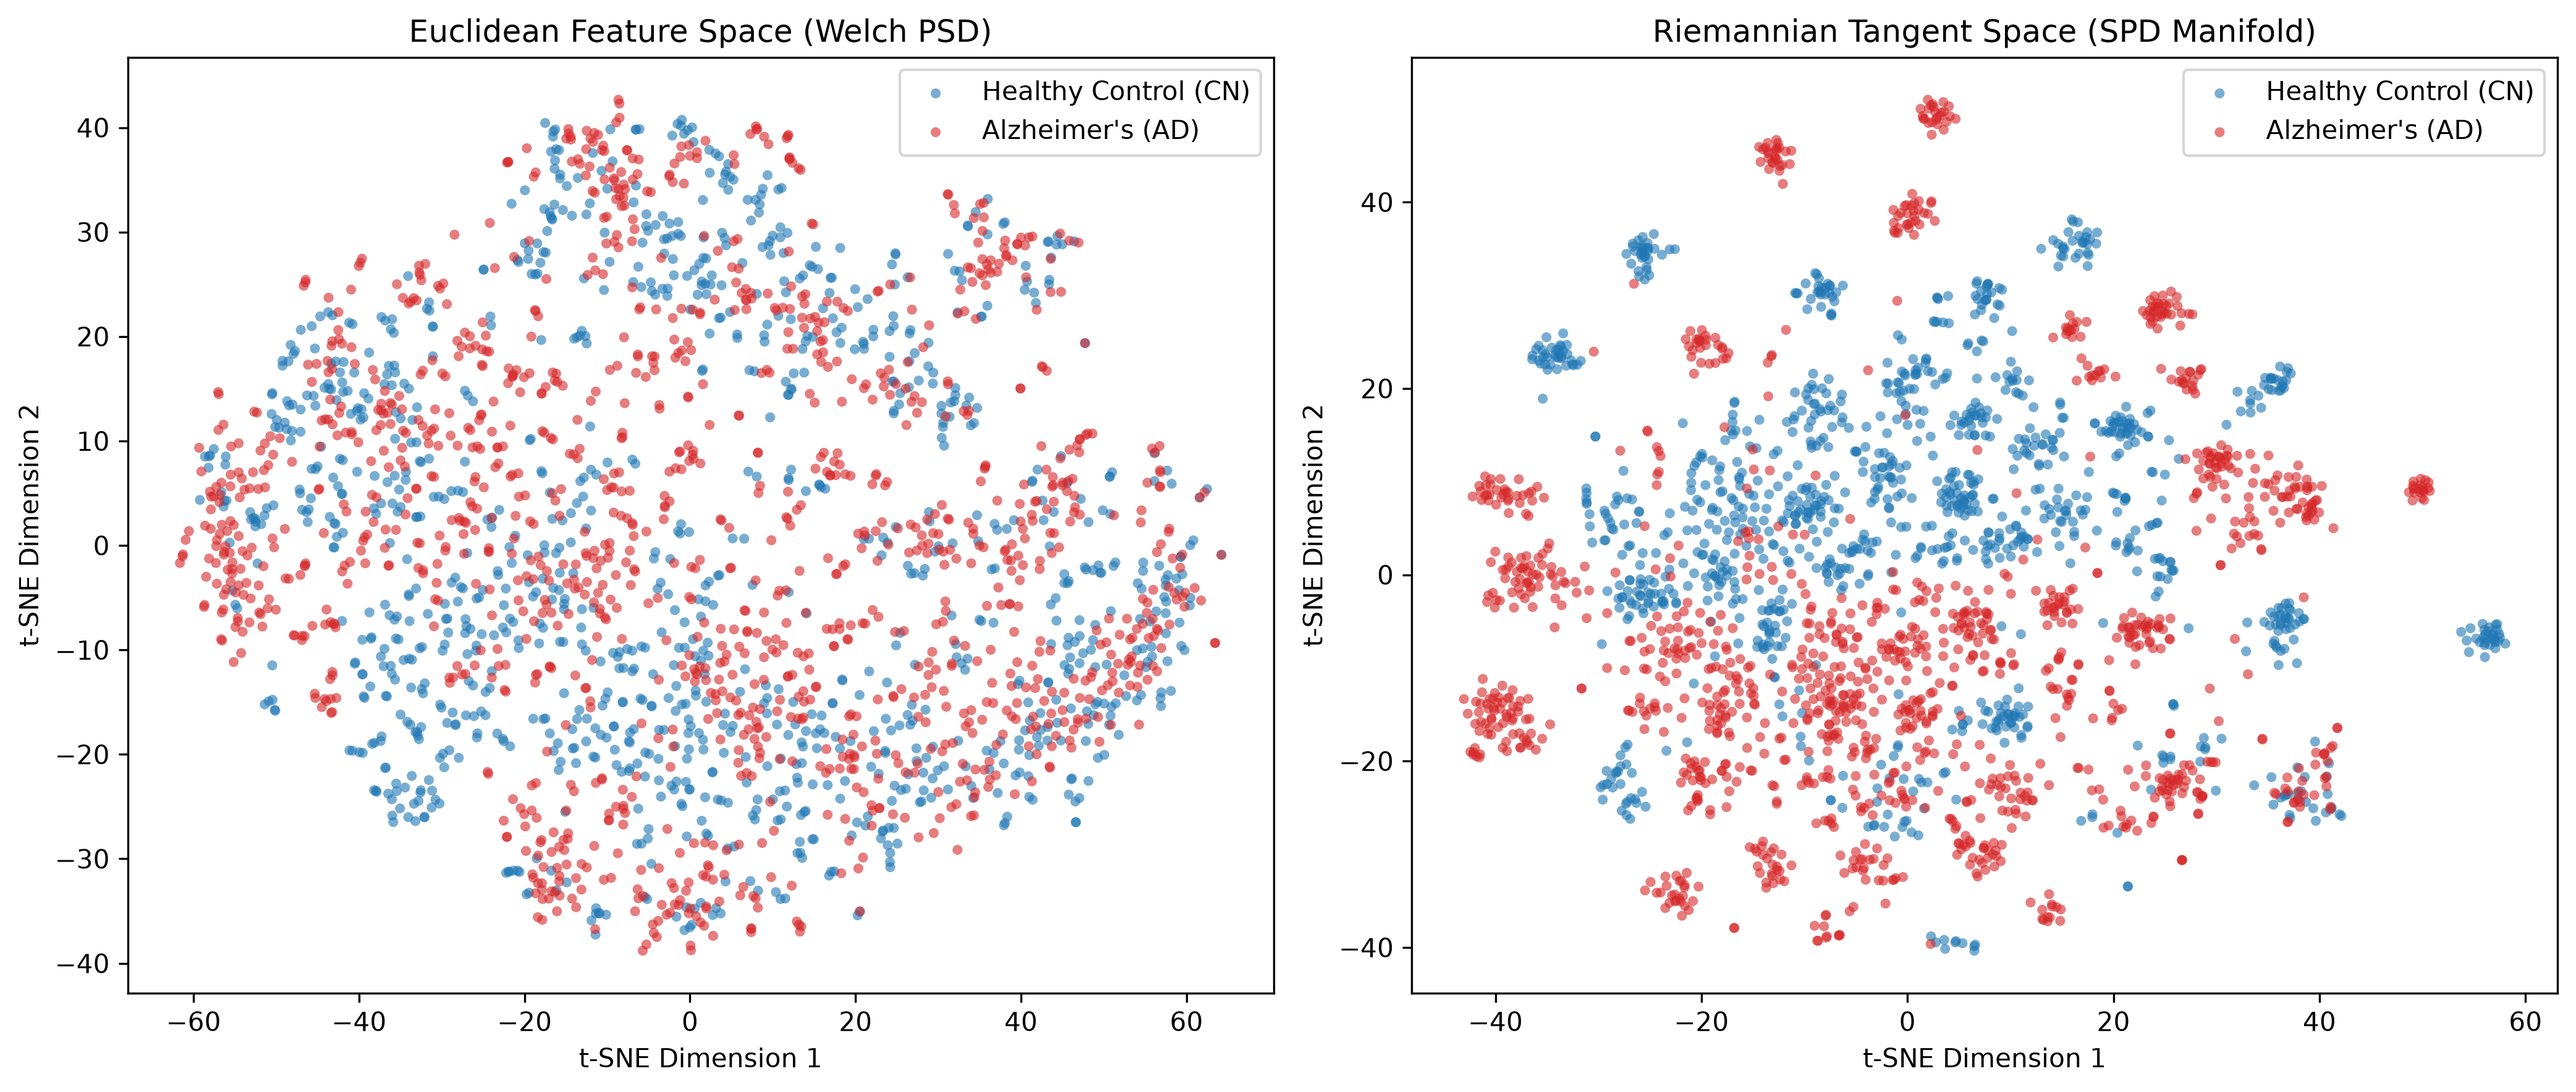
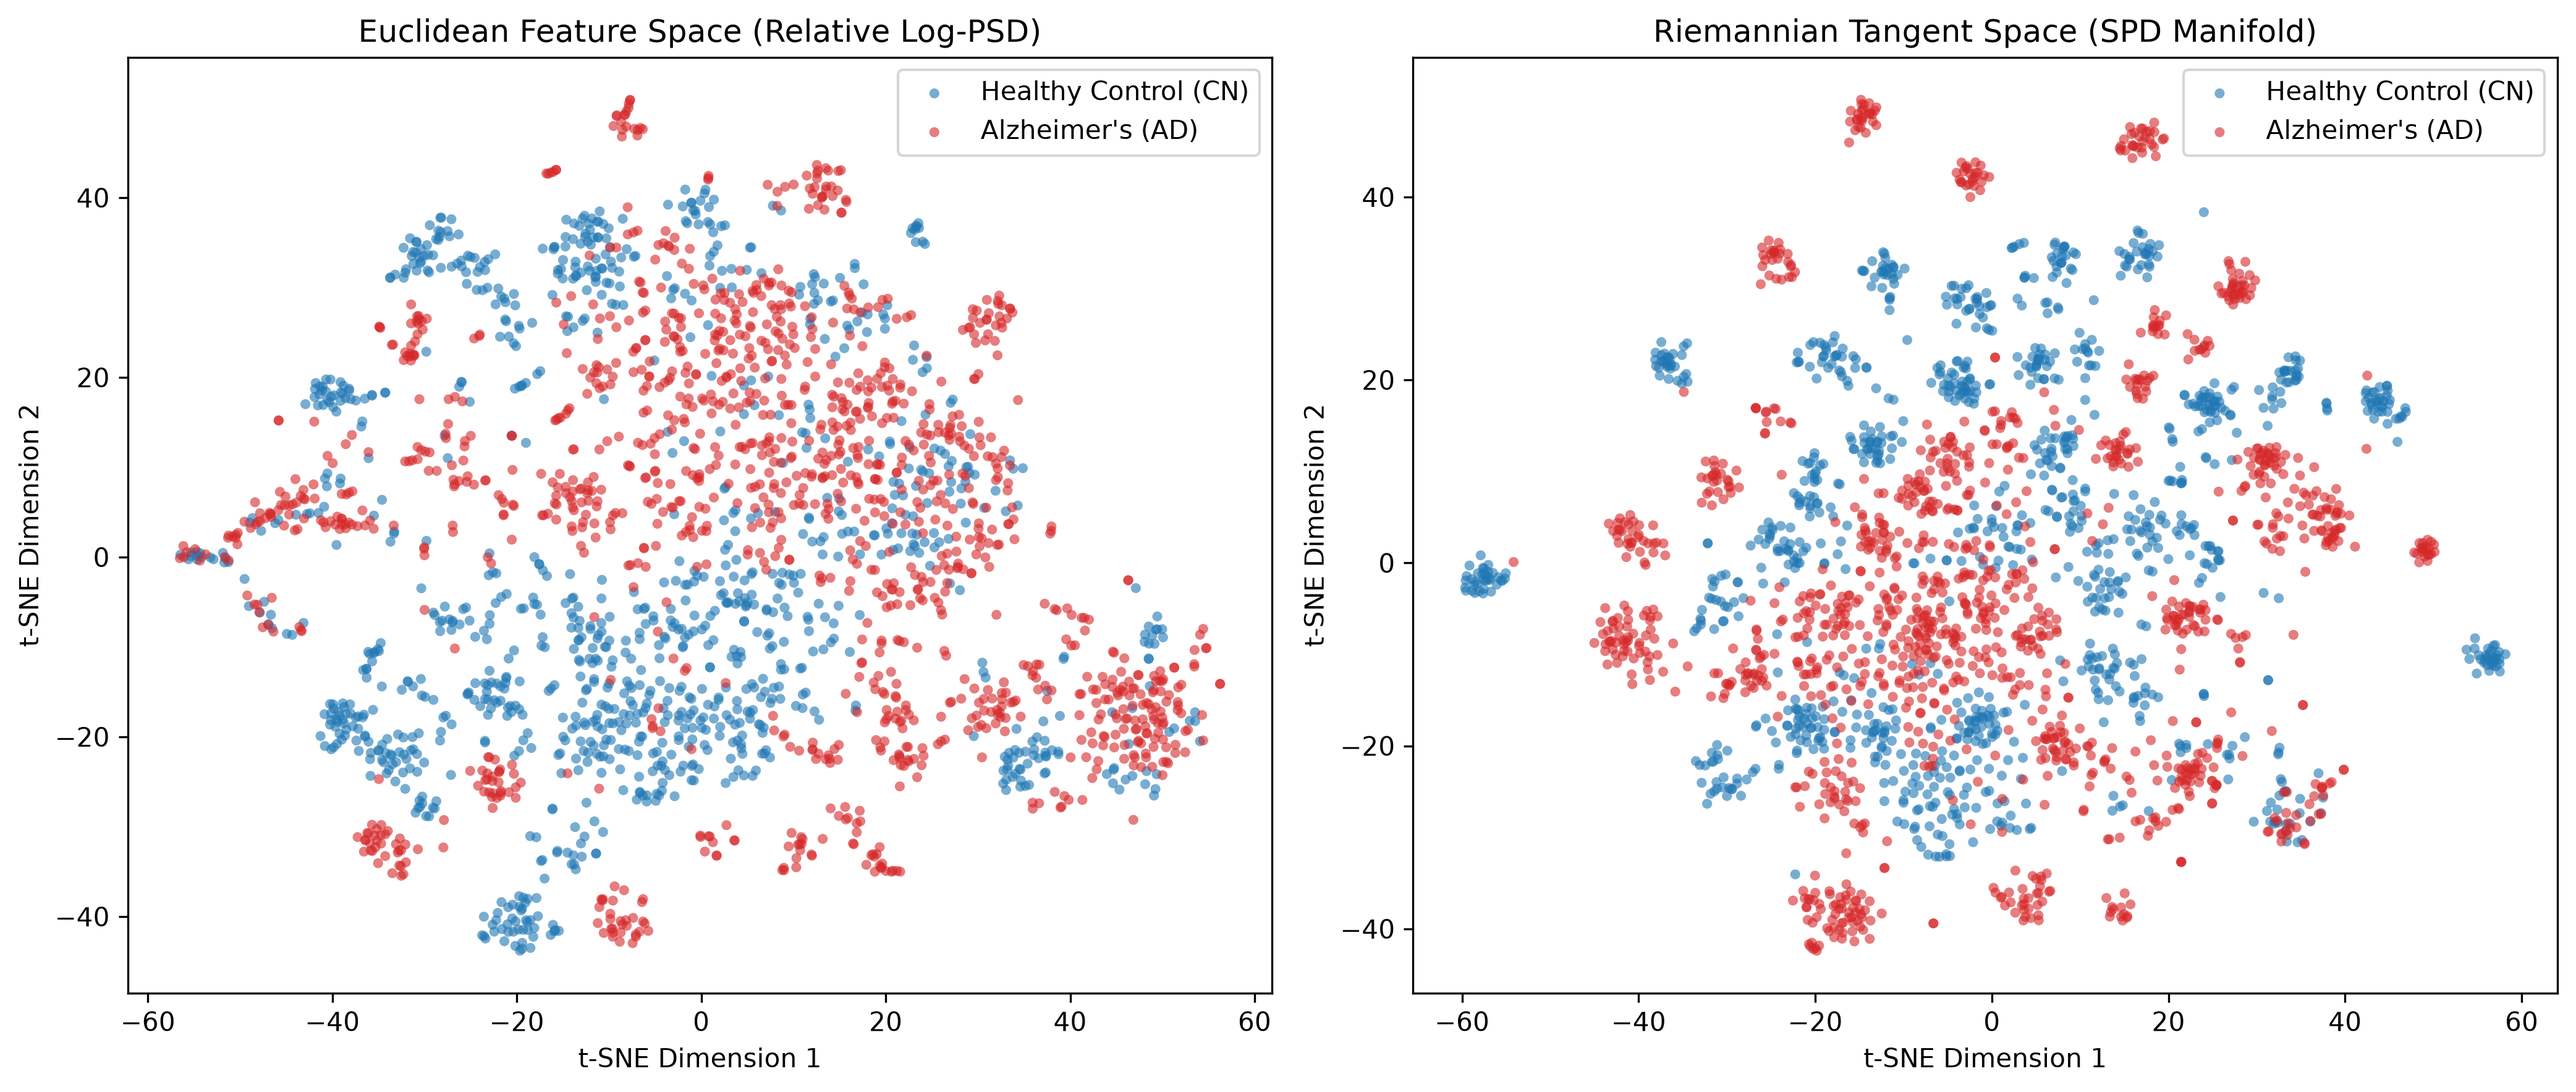
v1

diff --git a/6_eval.py b/6_eval.py
@@ -21,14 +21,16 @@ if __name__ == '__main__':
     logo = LeaveOneGroupOut()
 
     mdls = {
-        'TS-SVM': (Pipeline([('sc', StandardScaler()), ('svm', LinearSVC(class_weight='balanced', dual='auto', random_state=42))]), xt, 'decision_function'),
-        'TS-LR': (Pipeline([('sc', StandardScaler()), ('lr', LogisticRegression(class_weight='balanced', max_iter=1000))]), xt, 'decision_function'),
+        'TS-SVM': (Pipeline([('sc', StandardScaler()), ('svm', LinearSVC(C=0.01, class_weight='balanced', dual='auto', random_state=42))]), xt, 'decision_function'),
+        'TS-LR': (Pipeline([('sc', StandardScaler()), ('lr', LogisticRegression(C=0.01, class_weight='balanced', max_iter=1000))]), xt, 'decision_function'),
         'MDM': (MDM(metric=dict(mean='riemann', distance='riemann')), xc, 'predict_proba'),
-        'RF': (RandomForestClassifier(n_estimators=100, class_weight='balanced', random_state=42), xp, 'predict_proba'),
-        'Euc-LR': (Pipeline([('sc', StandardScaler()), ('lr', LogisticRegression(class_weight='balanced', max_iter=1000))]), xp, 'decision_function')
+        'RF': (RandomForestClassifier(n_estimators=200, max_depth=8, class_weight='balanced', random_state=42), xp, 'predict_proba'),
+        'Euc-LR': (Pipeline([('sc', StandardScaler()), ('lr', LogisticRegression(C=0.01, class_weight='balanced', max_iter=1000))]), xp, 'decision_function')
     }
 
-    res = []
+    ep_res = []
+    sb_res = []
+
     for nm, (m, x, mth) in mdls.items():
         sc = cross_val_predict(m, x, yl, groups=gl, cv=logo, method=mth, n_jobs=-1)
         if mth == 'predict_proba':
@@ -37,18 +39,39 @@ if __name__ == '__main__':
         else:
             pr = (sc >= 0.0).astype(int)
 
-        res.append({
+        ep_res.append({
             'Model': nm,
             'Accuracy': accuracy_score(yl, pr),
             'ROC-AUC': roc_auc_score(yl, sc),
-            'Precision': precision_score(yl, pr),
-            'Recall': recall_score(yl, pr),
-            'F1-Score': f1_score(yl, pr)
+            'Precision': precision_score(yl, pr, zero_division=0),
+            'Recall': recall_score(yl, pr, zero_division=0),
+            'F1-Score': f1_score(yl, pr, zero_division=0)
         })
 
-    df_res = pd.DataFrame(res)
-    print(df_res.to_string(index=False))
-    df_res.to_csv('loso_metrics.csv', index=False)
+        df_s = pd.DataFrame({'g': gl, 'y': yl, 'sc': sc, 'pr': pr}).groupby('g').mean()
+        ys = df_s['y'].astype(int).values
+        scs = df_s['sc'].values
+        prs = (df_s['pr'].values >= 0.5).astype(int)
+
+        sb_res.append({
+            'Model': nm,
+            'Accuracy': accuracy_score(ys, prs),
+            'ROC-AUC': roc_auc_score(ys, scs),
+            'Precision': precision_score(ys, prs, zero_division=0),
+            'Recall': recall_score(ys, prs, zero_division=0),
+            'F1-Score': f1_score(ys, prs, zero_division=0)
+        })
+
+    df_ep = pd.DataFrame(ep_res)
+    df_sb = pd.DataFrame(sb_res)
+
+    print("\n--- EPOCH-LEVEL LOSO METRICS (4s Windows) ---")
+    print(df_ep.to_string(index=False))
+    df_ep.to_csv('loso_epoch_metrics.csv', index=False)
+
+    print("\n--- SUBJECT-LEVEL LOSO METRICS (Patient Diagnosis) ---")
+    print(df_sb.to_string(index=False))
+    df_sb.to_csv('loso_subject_metrics.csv', index=False)
 
     rng = np.random.default_rng(42)
     idx = rng.choice(len(yl), size=min(2500, len(yl)), replace=False)
@@ -67,7 +90,7 @@ if __name__ == '__main__':
         ax[0].scatter(tsne_euc[msk, 0], tsne_euc[msk, 1], c=clr, label=nm, alpha=0.6, s=15, edgecolors='none')
         ax[1].scatter(tsne_rie[msk, 0], tsne_rie[msk, 1], c=clr, label=nm, alpha=0.6, s=15, edgecolors='none')
 
-    ax[0].set_title('Euclidean Feature Space (Welch PSD)')
+    ax[0].set_title('Euclidean Feature Space (Relative Log-PSD)')
     ax[0].set_xlabel('t-SNE Dimension 1')
     ax[0].set_ylabel('t-SNE Dimension 2')
     ax[0].legend()

diff --git a/4_5_model.py b/4_5_model.py
@@ -21,22 +21,22 @@ tr, te = next(gss.split(xc, yl, gl))
 ts_svm = Pipeline([
     ('ts', TangentSpace(metric='riemann')),
     ('sc', StandardScaler()),
-    ('svm', SVC(kernel='linear', class_weight='balanced'))
+    ('svm', SVC(kernel='linear', C=0.01, class_weight='balanced'))
 ])
 
 ts_lr = Pipeline([
     ('ts', TangentSpace(metric='riemann')),
     ('sc', StandardScaler()),
-    ('lr', LogisticRegression(class_weight='balanced', max_iter=1000))
+    ('lr', LogisticRegression(C=0.01, class_weight='balanced', max_iter=1000))
 ])
 
 mdm = MDM(metric=dict(mean='riemann', distance='riemann'))
 
-rf = RandomForestClassifier(n_estimators=100, class_weight='balanced', random_state=42, n_jobs=-1)
+rf = RandomForestClassifier(n_estimators=200, max_depth=8, class_weight='balanced', random_state=42, n_jobs=-1)
 
 euc_lr = Pipeline([
     ('sc', StandardScaler()),
-    ('lr', LogisticRegression(class_weight='balanced', max_iter=1000))
+    ('lr', LogisticRegression(C=0.01, class_weight='balanced', max_iter=1000))
 ])
 
 ts_svm.fit(xc[tr], yl[tr])
@@ -51,7 +51,7 @@ print("MDM:", accuracy_score(yl[te], mdm.predict(xc[te])), roc_auc_score(yl[te],
 print("RF:", accuracy_score(yl[te], rf.predict(xp[te])), roc_auc_score(yl[te], rf.predict_proba(xp[te])[:, 1]))
 print("Euc-LR:", accuracy_score(yl[te], euc_lr.predict(xp[te])), roc_auc_score(yl[te], euc_lr.decision_function(xp[te])))
 
-xt = ts_svm.named_steps['ts'].transform(xc)
+xt = TangentSpace(metric='riemann').fit_transform(xc)
 np.save('X_ts.npy', xt)
 
 joblib.dump({

diff --git a/3_feat_ext.py b/3_feat_ext.py
@@ -1,12 +1,14 @@
 import numpy as np
 from mne.time_frequency import psd_array_welch
 from pyriemann.estimation import Covariances
+from sklearn.preprocessing import Normalizer
 
 xd = np.load('X_data.npy')
 sf = 200.0
 
 p, f = psd_array_welch(xd, sf, fmin=0.5, fmax=45.0, n_fft=256, verbose=False)
 xp = p.reshape(p.shape[0], -1)
+xp = Normalizer().fit_transform(np.log10(np.maximum(xp, 1e-12)))
 
 ce = Covariances(estimator='lwf')
 xc = ce.fit_transform(xd)
